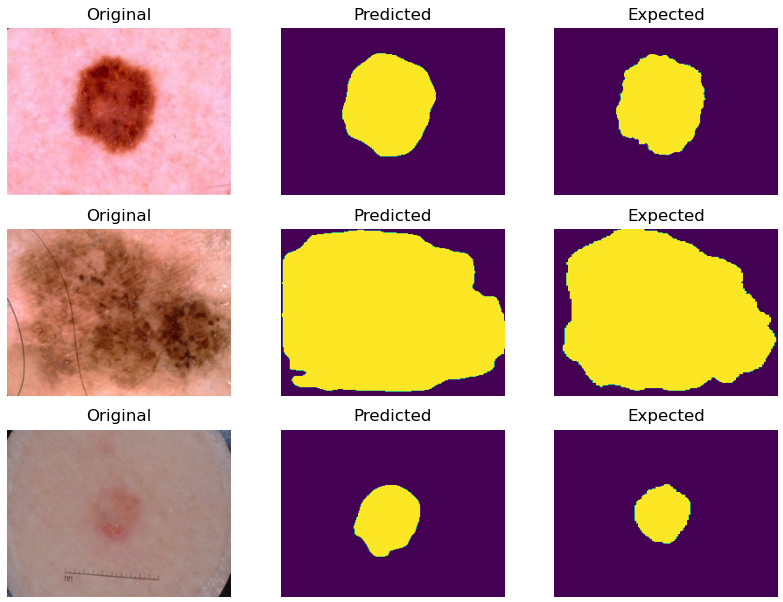
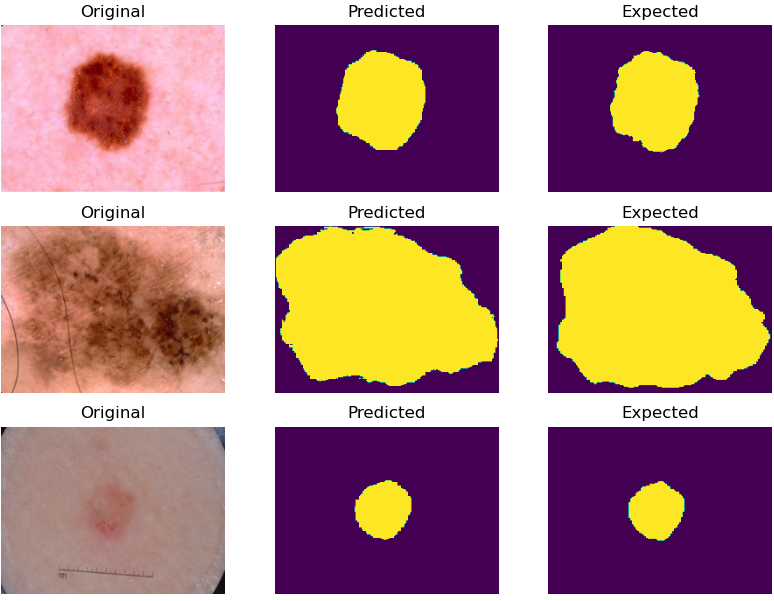
Added segementation layers to improved UNet, updated README example image to a new output

diff --git a/recognition/45314669_Zachary_Oar_Problem5/model.py b/recognition/45314669_Zachary_Oar_Problem5/model.py
@@ -98,13 +98,20 @@ def make_model():
     upconv2 = upsampling_module(local1, 64, context3)
 
     local2 = localisation_module(upconv2, 64)
+    seg1 = leaky_relu_conv(local2, 16, size=(1, 1))
+    seg1 = keras.layers.UpSampling2D((2, 2))(seg1)
     upconv3 = upsampling_module(local2, 32, context2)
 
     local3 = localisation_module(upconv3, 32)
+    seg2 = leaky_relu_conv(local3, 16, size=(1,1))
+    seg2 = keras.layers.add([seg2, seg1])
+    seg2 = keras.layers.UpSampling2D((2, 2))(seg2)
     upconv4 = upsampling_module(local3, 16, context1)
 
     end_conv = leaky_relu_conv(upconv4, 32)
-    conv_out = keras.layers.Conv2D(2, (1,1), padding="same", activation="softmax")(end_conv)
+    seg3 = leaky_relu_conv(end_conv, 16, size=(1, 1))
+    seg3 = keras.layers.add([seg3, seg2])
+    conv_out = keras.layers.Conv2D(2, (1,1), padding="same", activation="softmax")(seg3)
 
     model = keras.Model(inputs=input_layer, outputs=conv_out)
     model.compile(optimizer = keras.optimizers.Adam(),

diff --git a/recognition/45314669_Zachary_Oar_Problem5/driver.py b/recognition/45314669_Zachary_Oar_Problem5/driver.py
@@ -126,7 +126,7 @@ test_gen = SequenceGenerator(x_test, y_test, 4)
 
 # train the model
 model = make_model()
-model.fit(train_gen, validation_data=val_gen, epochs=1)
+model.fit(train_gen, validation_data=val_gen, epochs=20)
 
 # evaluate the model on the test set
 model.evaluate(test_gen)
